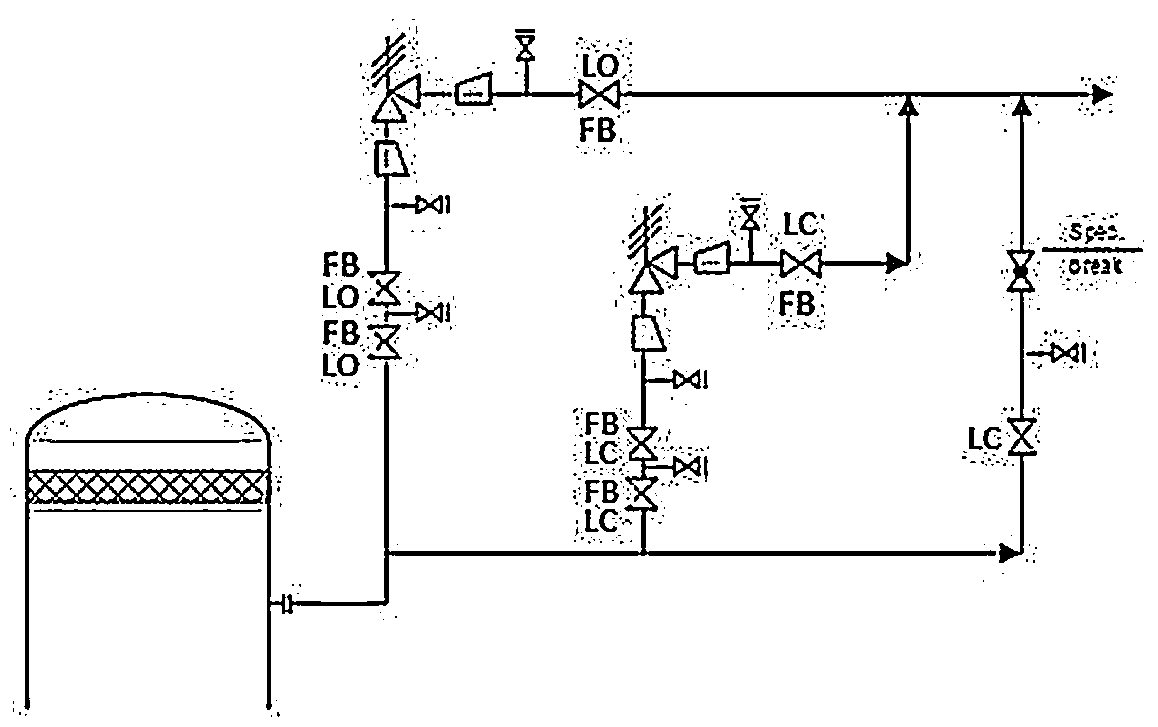
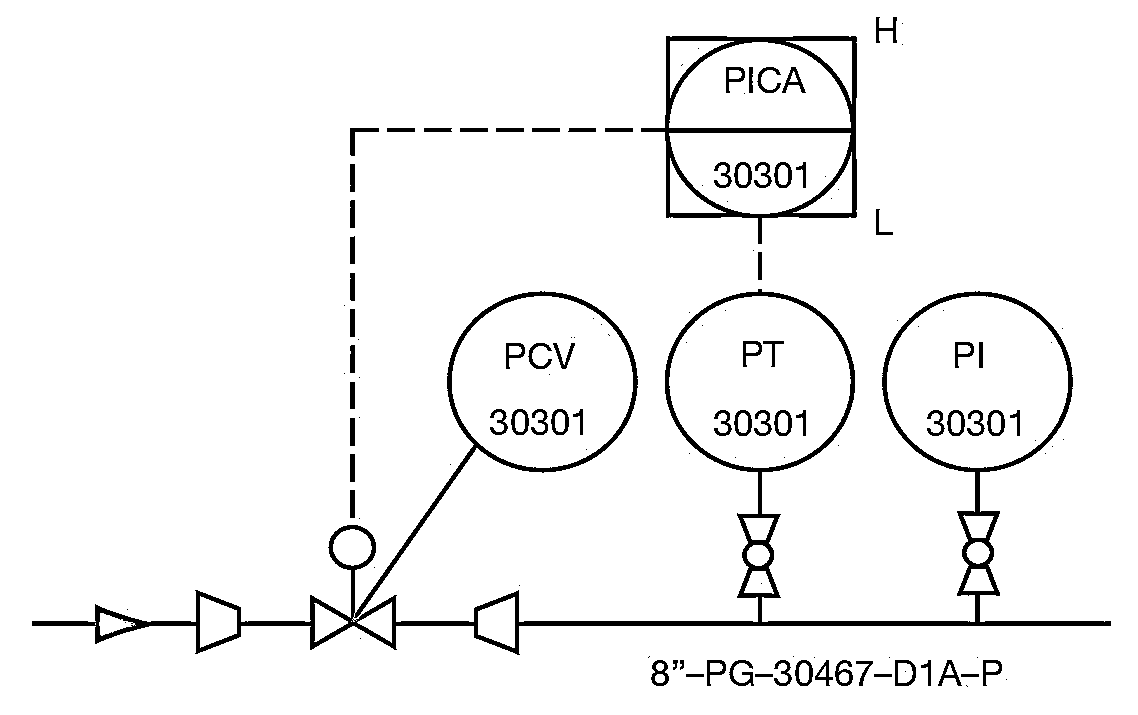
feat: adicionado teste de reconhecimento de caracteres

diff --git a/app/processamentoImagens.py b/app/processamentoImagens.py
@@ -4,7 +4,7 @@ import sys
 from pathlib import Path
 
 entrada = Path(sys.argv[1]) if len(sys.argv) > 1 else Path(
-	"dataset/original/diagramas/qtd_baixa/qld_baixa/102.jpg"
+	"dataset/original/diagramas/qtd_baixa/qld_alta/155.jpg"
 )
 saida_grayscale = Path(sys.argv[2]) if len(sys.argv) > 2 else Path(
 	"dataset/processado/pid_102_gray.png"
@@ -34,7 +34,7 @@ saida_bilateralFilter = Path(
 	"dataset/processado/pid_102_bilateralFilter.png"
 )
 saida_binary = Path(
-	"dataset/processado/pid_102_binary.png"
+	"dataset/processado/pid_155_binary.png"
 )
 saida_otsu = Path(
 	"dataset/processado/pid_102_otsu.png"
@@ -124,11 +124,11 @@ if not cv2.imwrite(str(saida_resized_nearest), imagem_2x_nearest):
 
 
 # Grayscale
-"""cinza = cv2.cvtColor(imagem, cv2.COLOR_BGR2GRAY)
+cinza = cv2.cvtColor(imagem, cv2.COLOR_BGR2GRAY)
 
 saida_grayscale.parent.mkdir(parents=True, exist_ok=True)
 if not cv2.imwrite(str(saida_grayscale), cinza):
-	raise OSError(f"Não foi possível salvar a imagem processada: {saida_grayscale}")"""
+	raise OSError(f"Não foi possível salvar a imagem processada: {saida_grayscale}")
 
 
 # Contraste
@@ -195,9 +195,9 @@ TIPOS DE BINARIZAÇÃO:
 	- Threshold automático (otsu)
 	- Adaptive
 """
-"""threshold_value, binary = cv2.threshold(
+threshold_value, binary = cv2.threshold(
 	cinza,
-	200,
+	0,
 	255,
 	cv2.THRESH_BINARY
 )
@@ -228,7 +228,7 @@ if not cv2.imwrite(str(saida_otsu), otsu):
 
 saida_adaptative.parent.mkdir(parents=True, exist_ok=True)
 if not cv2.imwrite(str(saida_adaptative), adaptive):
-	raise OSError(f"Não foi possível salvar a imagem processada: {saida_adaptative}")"""
+	raise OSError(f"Não foi possível salvar a imagem processada: {saida_adaptative}")
 
 
 # Operações Morfológicas

diff --git a/app/leituraImagem.py b/app/leituraImagem.py
@@ -1,0 +1,68 @@
+import cv2
+import pytesseract
+import sys
+from pathlib import Path
+
+def main():
+    entrada = Path(sys.argv[1]) if len(sys.argv) > 1 else Path(
+        "dataset/processado/pid_102_otsu.png"
+    )
+
+    if not entrada.is_file():
+        raise FileNotFoundError(f"Imagem não encontrada: {entrada}")
+
+    imagem = cv2.imread(str(entrada))
+    if imagem is None:
+        raise ValueError(f"Não foi possível abrir a imagem: {entrada}")
+
+    dados = pytesseract.image_to_data(
+        imagem,
+        lang="eng",
+        config="--psm 11",
+        output_type = pytesseract.Output.DICT
+    )
+
+    encontrados = []
+
+    for i, texto in enumerate(dados["text"]):
+        texto = texto.strip()
+
+        if not texto:
+            continue
+
+        try:
+            confianca = float(dados["conf"][i])
+        except ValueError:
+            continue
+
+        if confianca < 30:
+            continue
+
+        x = dados["left"][i]
+        y = dados["top"][i]
+        w = dados["width"][i]
+        h = dados["height"][i]
+
+        encontrados.append({
+            "texto": texto,
+            "confianca": confianca,
+            "x": x,
+            "y": y,
+            "largura": w,
+            "altura": h,
+        })
+
+    print("\n=== Textos Encontrados ===\n")
+
+    for item in encontrados:
+        print(
+            f'{item["texto"]:<20} '
+            f'conf={item["confianca"]:.1f} '
+            f'pos=({item["x"]}, {item["y"]})'
+            f'tam=({item["largura"]}x{item["altura"]})'
+        )
+    
+
+if __name__ == "__main__":
+    main()
+    # The previous code has been replaced by the main function implementation.

diff --git a/app/test_text_regions.py b/app/test_text_regions.py
@@ -1,0 +1,75 @@
+import cv2
+import sys
+from pathlib import Path
+
+def main():
+    entrada = Path(sys.argv[1]) if len(sys.argv) > 1 else Path(
+        "dataset/original/diagramas/qtd_baixa/qld_alta/148.jpg"
+    )
+
+    saida = Path(sys.argv[2]) if len(sys.argv) > 2 else Path(
+        "dataset/processado/text_regions.png"
+    )
+
+    if not entrada.is_file():
+        raise FileNotFoundError(f"Imagem não encontrada: {entrada}")
+
+    imagem = cv2.imread(str(entrada))
+
+    if imagem is None:
+        raise ValueError(f"Não foi possível abrir a imagem: {entrada}")
+
+    gray = cv2.cvtColor(imagem, cv2.COLOR_BGR2GRAY)
+
+    # DETECTOR MSER
+    mser = cv2.MSER_create()
+
+    regioes, _ = mser.detectRegions(gray)
+
+    resultado = imagem.copy()
+
+    candidatos = []
+
+    for regiao in regioes:
+
+        x, y, w, h = cv2.boundingRect(regiao)
+
+        # Filtros básicos
+        if w < 2 or h < 5:
+            continue
+
+        if w > 100 or h > 100:
+            continue
+
+        area = w * h
+
+        if area < 20:
+            continue
+
+        # Proporção
+        proporcao = w / h
+
+        if proporcao > 15 or proporcao < 0.1:
+            continue
+
+        candidatos.append((x, y, w, h))
+
+    print(f"\nRegiões detectadas: {len(candidatos)}\n")
+
+    for x, y, w, h in candidatos:
+        cv2.rectangle(
+            resultado,
+            (x, y),
+            (x + w, y + h),
+            (0, 0, 255),
+            1
+        )
+
+    saida.parent.mkdir(parents=True, exist_ok=True)
+
+    cv2.imwrite(str(saida), resultado)
+
+    print(f"Resultado salvo em: {saida}")
+
+if __name__ == "__main__":
+    main()
